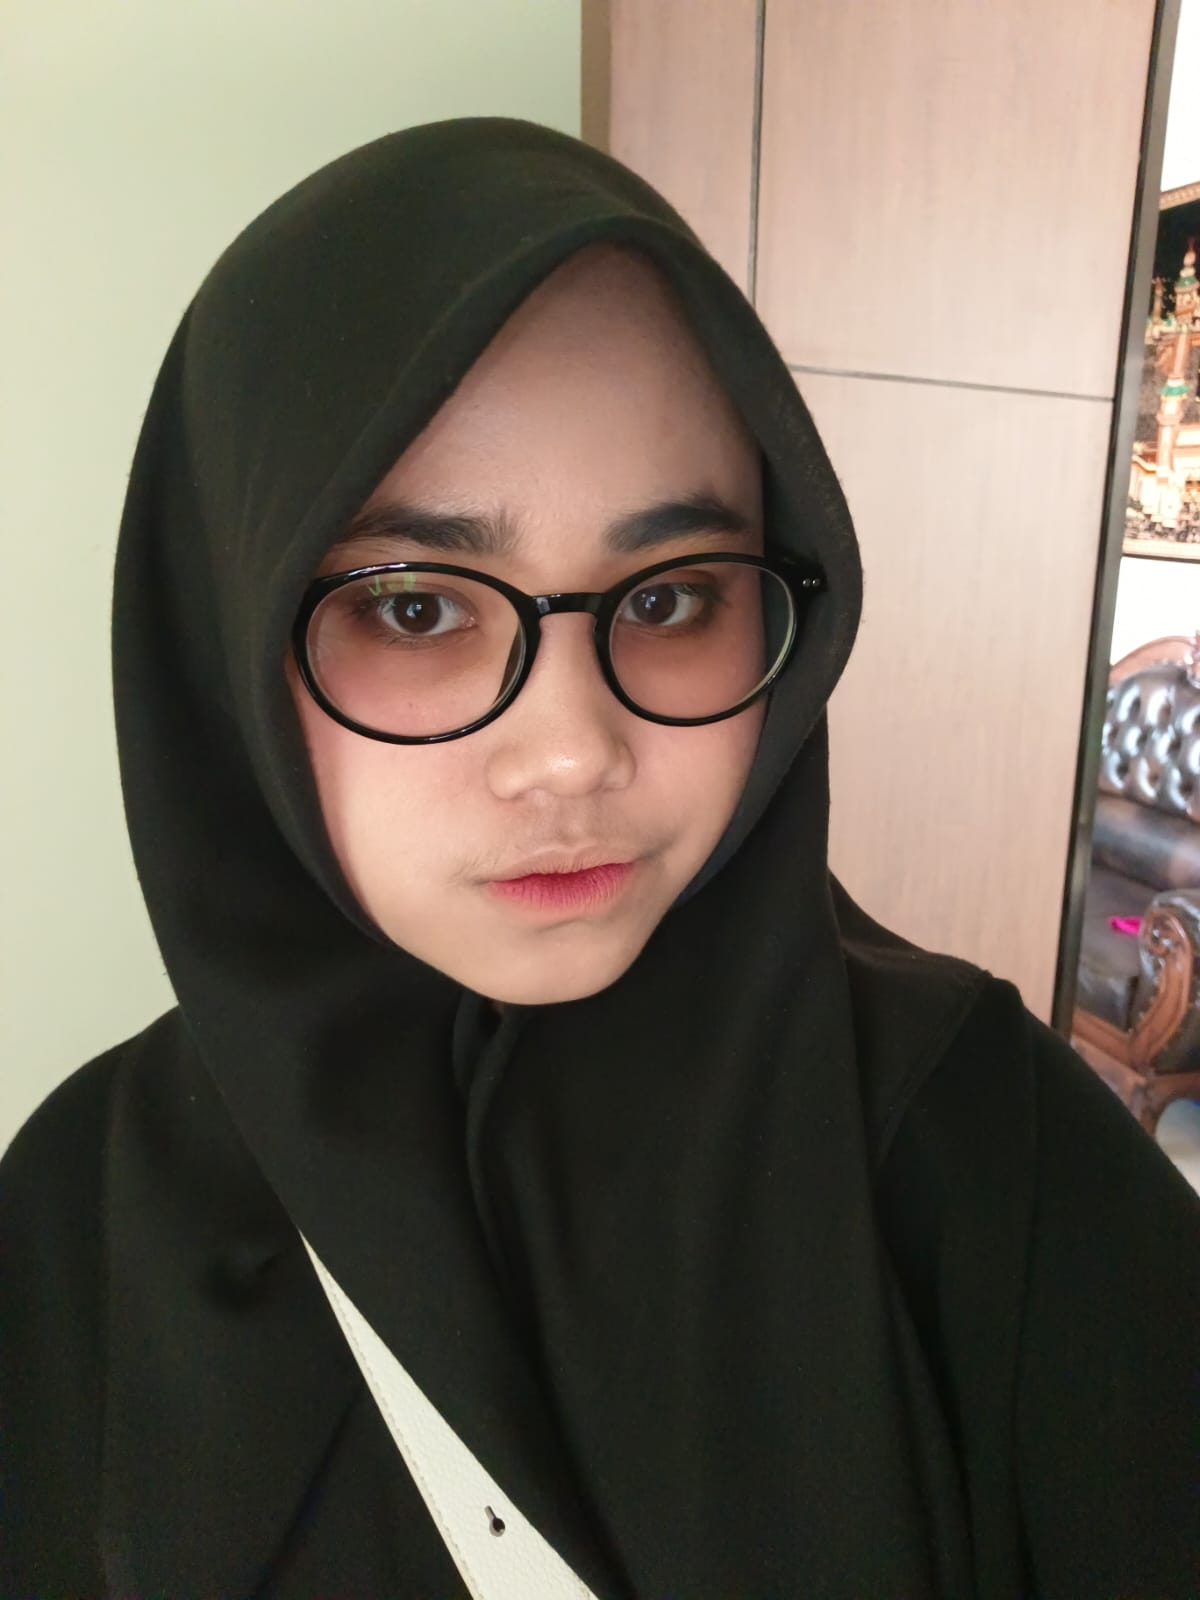
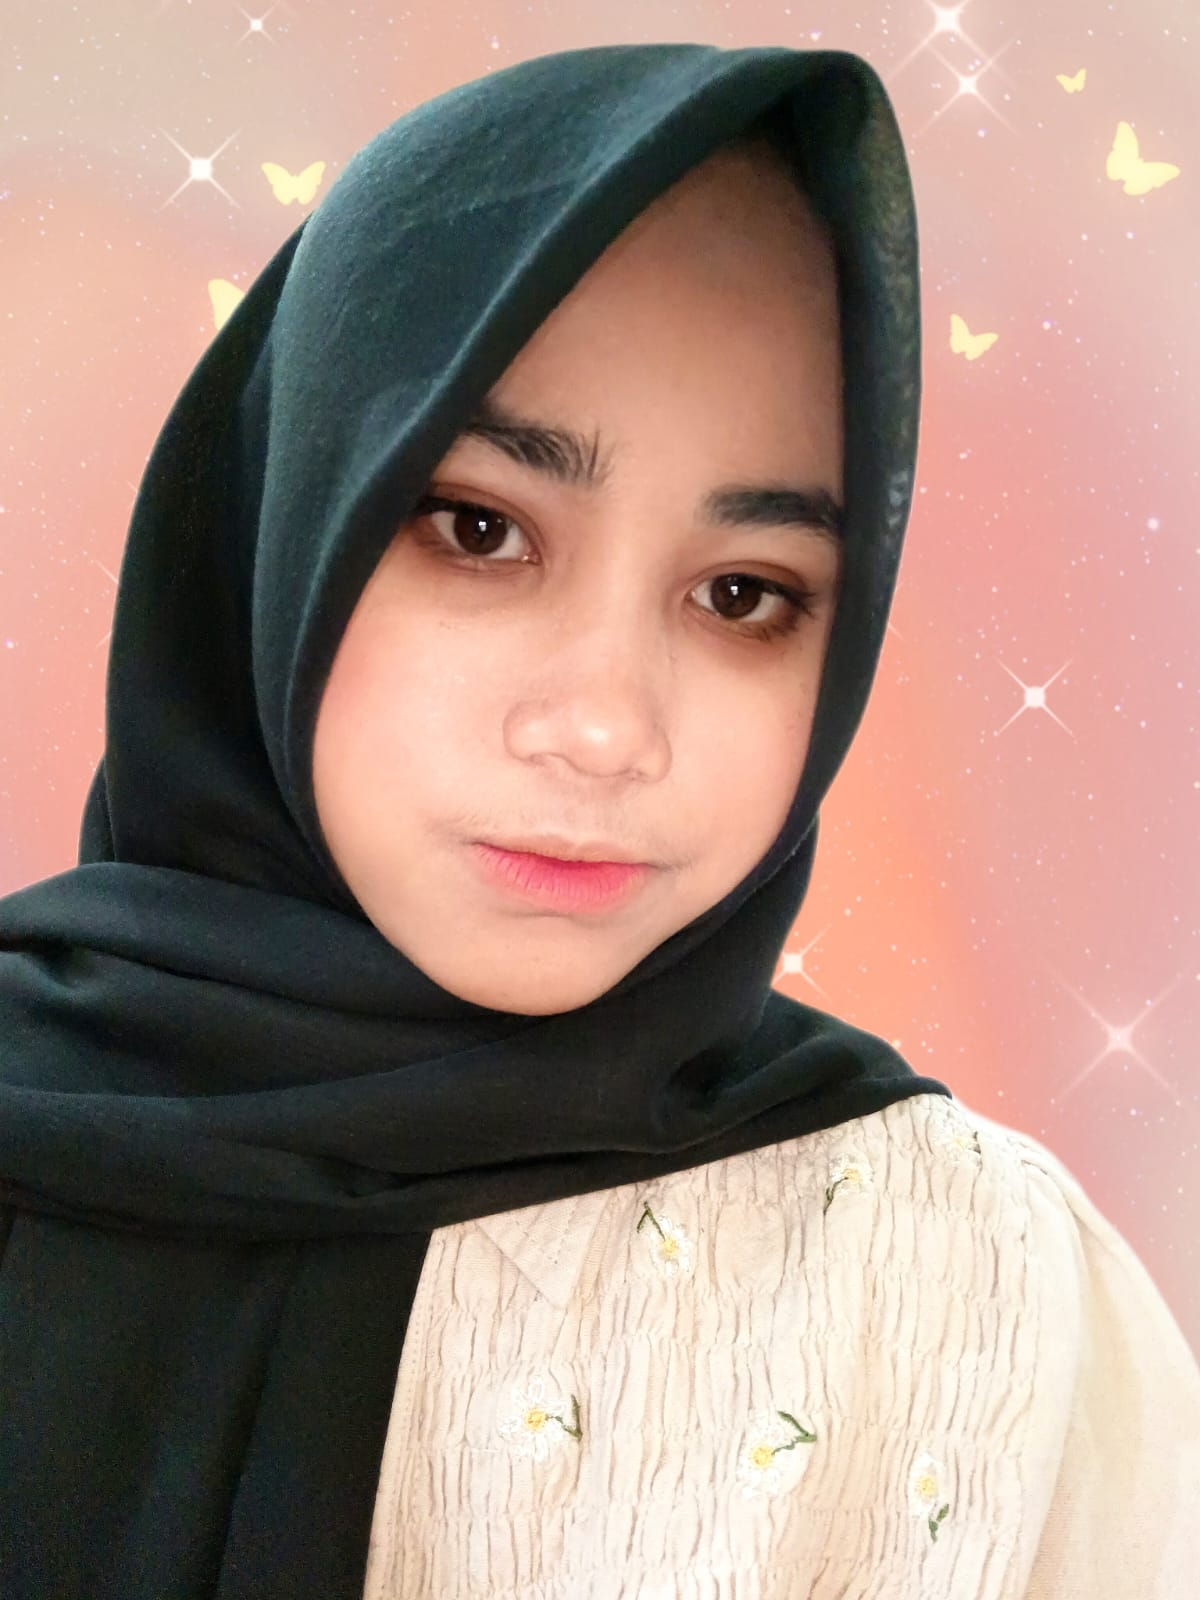
Add simpleazy

diff --git a/portfolio.html b/portfolio.html
@@ -585,6 +585,17 @@
           <h2>Nisa’s blog</h2>
           <button>UI/UX, Web Development</button>
         </a>
+
+        <a href="https://simpleazy-ten.vercel.app/" target="_blank">
+          <img
+            src="https://res.cloudinary.com/nisacodelifings/image/upload/v1773721644/f72fb93d-0256-43c1-a1d0-873ed7bc73da.png"
+            width="390px"
+            height="200px"
+          />
+          <h2>Simpleazy</h2>
+          <p>This is my first web design page</p>
+          <button>UI/UX, Web Development</button>
+        </a>
       </div>
       <div class="hero instrument-serif">
         UIUX

diff --git a/index.html b/index.html
@@ -55,7 +55,7 @@
       <section>
         <img src="./assets/nisa.jpeg" alt="nisa" width="300px" height="390px" />
         <p class="instrument-serif">
-          I am Nisa, 22y.o with 1.5m feet girl, adaptive, focus and fast-learner programmer lived in Bandung, Indonesia working on
+          I am Nisa, 22y.o with 1.48m feet girl, adaptive, focus and fast-learner programmer lived in Bandung, Indonesia working on
           <span class="italianno">Software engineering</span> passionate in
           design and web development.
         </p>
